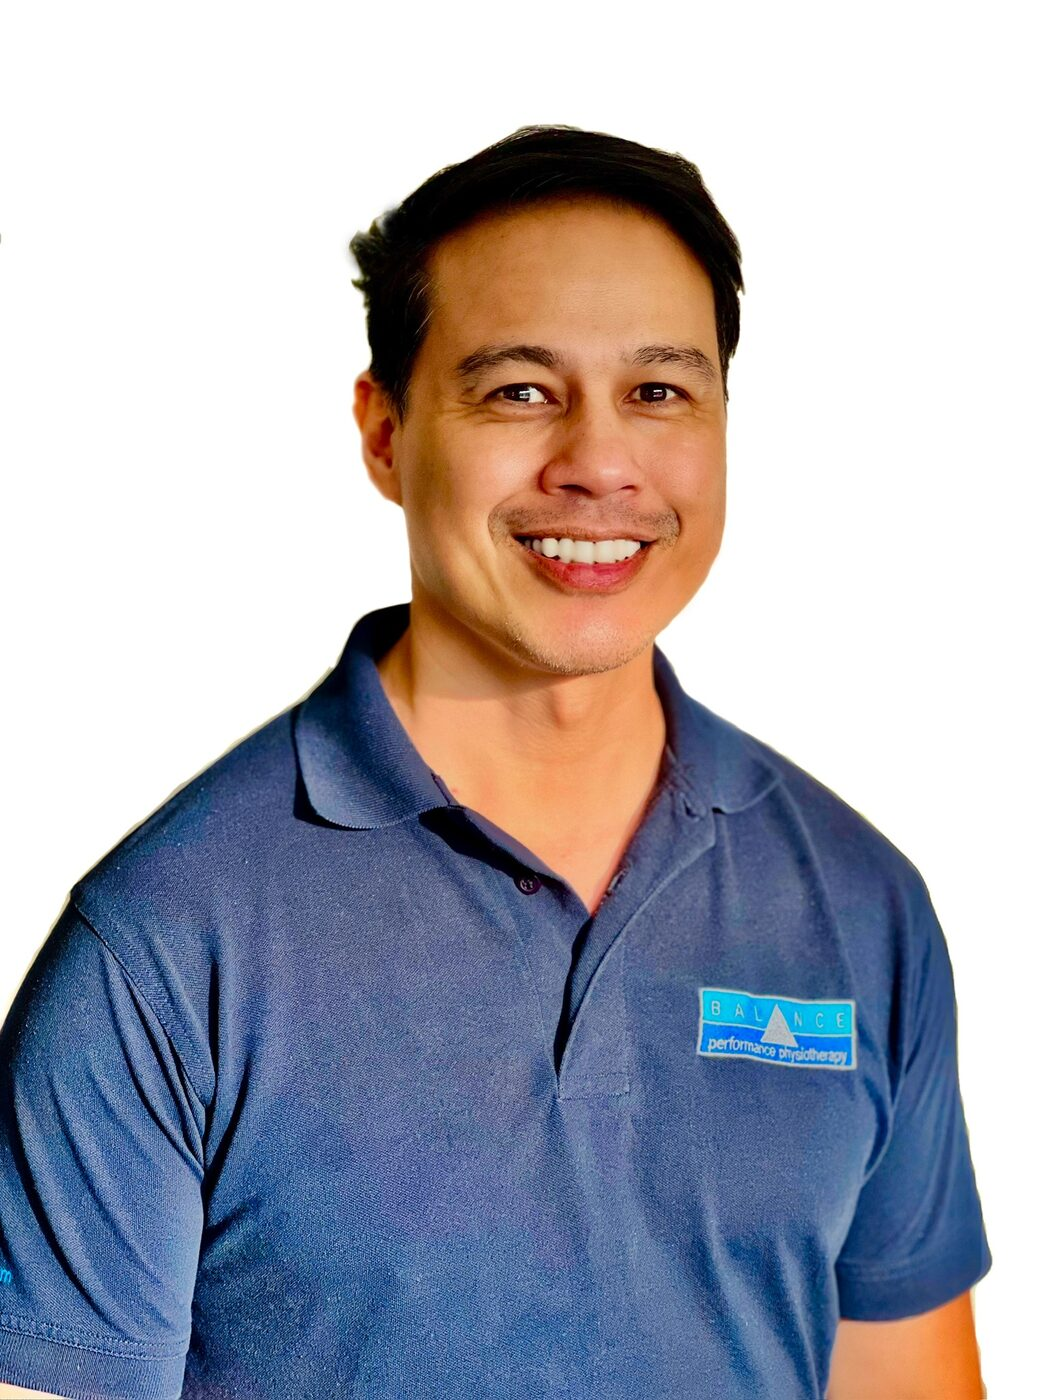
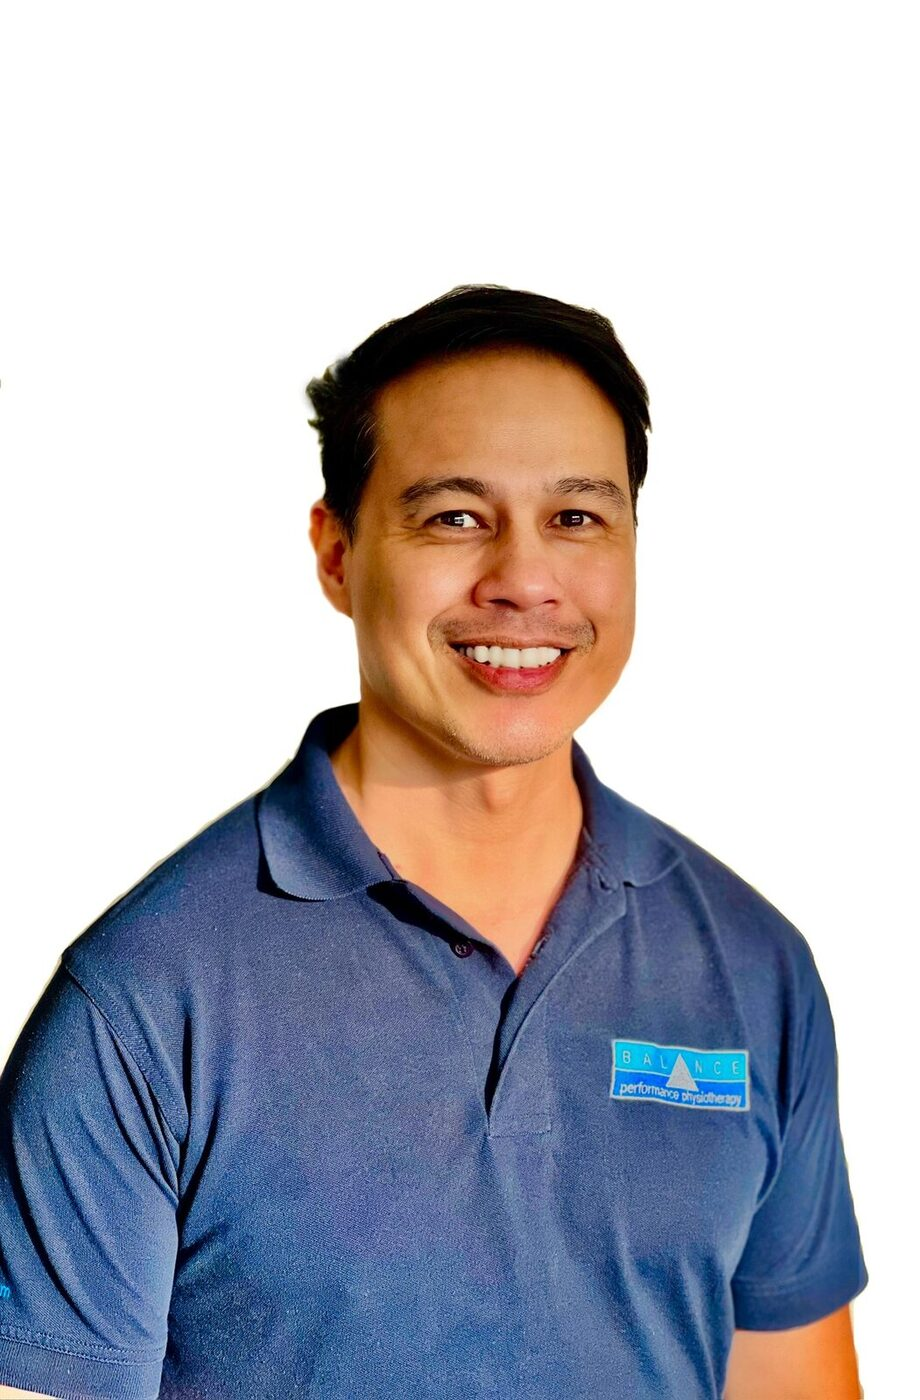
Pricing scroll fix; mens-health, TMJ, shockwave image refresh; menu reorg; team additions
- pricing.astro: bump .price-card scroll-margin-top from 110px to 150px so
  the section title clears the fixed header comfortably when arriving via
  an anchor link from a service page.

- service/mens-health.astro: swap Jo Fordyce image to the new team-page
  portrait (/mens-health/jo-fordyce.jpg).

- components/Header.astro: move Hydrotherapy under Foot & Lower Limb (sits
  after Podiatry); the empty 'Rehab' menu group is removed.

- service/tmj-and-jaw-pain.astro: first body image (introImage) and second
  (whenImage) replaced with the new treatment shots from Drive
  (jaw-treatment-1.jpg, jaw-treatment-2.jpg). Jonathan Zulueta's headshot
  re-cropped with white space added above his head so his hair is no
  longer cut off in the 1:1 frame.

- public/shockwave-therapy/how-we-use-treatment.jpg: padded to a full
  square so the whole image is visible — was being clipped by the 1:1
  container before.

- src/data/team.js: add photo field to Jose, Dan, Claire Speer, Claire
  Benson and Kellie Collar — all five had photos in their Drive folders
  that the previous team-refresh patch had missed. Also fixed a duplicate
  truncated line in Kellie's bio that had been hanging around since
  before patch 3c, and changed 'have two young' to 'has two young' in
  the same paragraph.

Quality flags:
- Jose, Dan and Claire Speer source photos in Drive are low-resolution
  thumbnails (14-19 KB). They render acceptably at team-card size but
[…]

diff --git a/src/data/team.js b/src/data/team.js
@@ -87,6 +87,7 @@ export const team = [
 		slug: 'dr-jose-sanz-mengibar',
 		name: 'Dr. Jose Sanz Mengibar',
 		role: 'Consultant Neurological Physiotherapist, Vojta Therapist',
+		photo: '/team/dr-jose-sanz-mengibar.jpg',
 		bio: [
 			"I am a Doctor in physiotherapy. My work combines academic research with clinical practice and is aided by my own experience as an elite-level gymnast. In my 19 years of clinical practice I have worked with the general public and athletes but have specialised in children and adults with neurological disorders. My approach to musculoskeletal / orthopaedic conditions is also grounded in the underlying CNS postural disfunction. My training focuses on neurological physiotherapy and my research explores ontogenetic postural development, motor neuroscience, postural control, and from limited to high motor function. I am committed to transmitting my practice and research via writing and teaching. I have lead-authored six academic articles, authored another three, and seven popular books. I have lectured in courses and congresses in Germany, Italy, and Spain. I am fluent in Spanish, English, Italian and intermediate in German.",
 		],
@@ -95,6 +96,7 @@ export const team = [
 		slug: 'dan-elias',
 		name: 'Dan Elias',
 		role: 'Consultant Youth & Sports Injury Physiotherapist',
+		photo: '/team/dan-elias.jpg',
 		bio: [
 			"Dan is a highly experienced Physiotherapist with over 16 years of clinical experience across the NHS, private practice, and elite sport. He initially completed a BSc in Sport & Exercise Science at the University of Hertfordshire, before qualifying as a Physiotherapist with a BSc from St George's, University of London. Dan went on to complete an MSc in Sports Injury Rehabilitation at the University of Salford, where he trained under Olympic Games Physiotherapists.",
 			"Dan specialises in youth physiotherapy and sports injury rehabilitation, working with athletes across all ages and levels. He has provided physiotherapy support to runners at multiple London Marathons and has extensive experience treating sprinters, endurance, and ultra-marathon athletes.",
@@ -199,6 +201,7 @@ export const team = [
 		slug: 'claire-speer',
 		name: 'Claire Speer',
 		role: 'Physiotherapist',
+		photo: '/team/claire-speer.jpg',
 		bio: [
 			"BSc (Hons) Sports Therapy, PgDip Physiotherapy, PgCert Healthcare Management, DFSEM(UK). HCPC and CSP registered.",
 			"With nearly 20 years of experience in injury management, Claire is a skilled musculoskeletal physiotherapist. She has worked in various roles, including Director of Clinical Services at a private hospital in the North of England, and leading physiotherapy teams in two private hospitals in South West London. Throughout her career, Claire has supported patients with long-term conditions, post-surgery recovery, and sports injuries, maintaining a clinical caseload in both private clinics, professional sport and the NHS.",
@@ -269,12 +272,12 @@ export const team = [
 		slug: 'kellie-collar',
 		name: 'Kellie Collar',
 		role: 'Soft Tissue Massage Therapist',
+		photo: '/team/kellie-collar.jpg',
 		bio: [
 			"Kellie qualified as a Sports Massage Therapist in 2000 and went on to complete a Higher Diploma in Sports Massage Therapy (Level 4) in 2007.",
 			"An acclaimed athlete herself, Kellie was part of team GB in Judo and Dragon Boat Racing, as well as playing club rugby. She has, as a result, developed an in depth understanding of the training, determination and mentality required to be an athlete at all levels. Kellie is able to utilise her experience as an athlete to provide massage in a manner complementary to a healthy life and training schedule.",
-			"Kellie has worked with a wide range of elite performers and organisation, including Olympic athletes, elite tennis players",
 			"Kellie has worked with a wide range of elite performers and organisations, including Olympic athletes, elite tennis players during the Wimbledon Championships, the British Judo Association, London Irish Premiership Rugby Club, and the English Institute of Sport.",
-			"Outside of work, she can be found either watching or participating in as much sport as possible. Kellie is also happily married and have two young very energetic children!",
+			"Outside of work, she can be found either watching or participating in as much sport as possible. Kellie is also happily married and has two young very energetic children!",
 			"Every year Kellie continues her professional development by working closely with other experienced clinicians, allowing her to learn new techniques and expand on her existing knowledge.",
 			"Kellie is also a member of the Sports Massage Association.",
 		],
@@ -283,6 +286,7 @@ export const team = [
 		slug: 'claire-benson',
 		name: 'Claire Benson',
 		role: 'Soft Tissue Massage Therapist',
+		photo: '/team/claire-benson.jpg',
 		bio: [
 			"Claire is a sports massage and soft tissue therapist. She also teaches yoga and is studying to be an osteopath.",
 			"Fascinated by the body, movement and the mind body connection, Claire believes that massage is a key component in achieving optimal wellbeing. Massage can help your mind and body relax, repair, restore and rejuvenate. Claire works with clients from a variety of backgrounds from on-the-go yoga teachers to desk-bound office workers; tailoring each treatment to their unique needs.",
